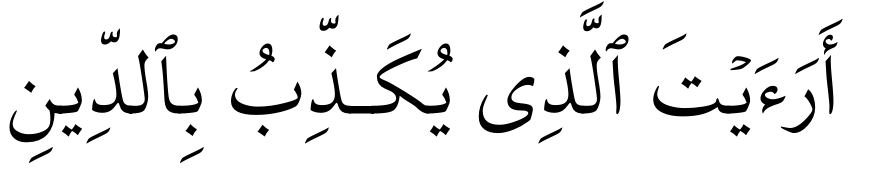
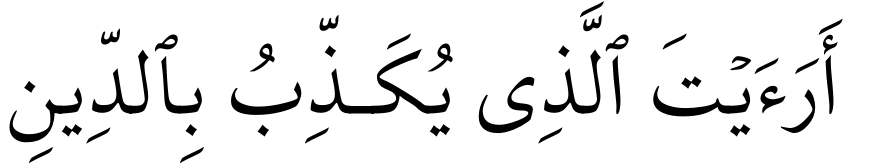
КОрректировка

diff --git a/pages/surah.html b/pages/surah.html
@@ -84,61 +84,61 @@
             margin-bottom: 24px;
         }
         
-        .basmala {
-            font-family: 'SF Pro Arabic', 'Scheherazade', serif;
-            font-size: 26px;
-            line-height: 1.8;
-            color: #8e8e93;
-            text-align: center;
-            padding: 20px 16px;
-            border-radius: 12px;
-            cursor: pointer;
-            transition: all 0.15s;
-            direction: rtl;
-            font-weight: 500;
-            background: #f8f9fa;
-            border: 1px solid rgba(0, 0, 0, 0.05);
-        }
-        
-        .basmala:active {
-            background: #f2f2f7;
-        }
-        
-        .basmala.playing {
-            background: rgba(0, 122, 255, 0.08);
-            color: #007aff;
-            border-color: rgba(0, 122, 255, 0.2);
-        }
-        
         .ayahs-container {
             direction: rtl;
         }
         
+        /* НОВЫЕ СТИЛИ ДЛЯ ИЗОБРАЖЕНИЙ */
         .ayah {
-            font-family: 'SF Pro Arabic', 'Scheherazade', serif;
-            font-size: 26px;
-            line-height: 1.8;
-            color: #000;
+            display: flex;
+            justify-content: center;
+            padding: 0;
+            background: transparent;
+            border: none;
             margin-bottom: 16px;
-            padding: 20px 16px 20px 60px;
-            border-radius: 12px;
             cursor: pointer;
-            transition: all 0.15s;
-            position: relative;
-            background: white;
+        }
+        
+        .ayah img {
+            height: 80px;
+            width: auto;
+            max-width: 100%;
+            display: block;
+            border-radius: 12px;
             border: 1px solid rgba(0, 0, 0, 0.05);
+            transition: all 0.15s;
         }
         
-        .ayah:active {
-            background: #f2f2f7;
+        .basmala {
+            display: flex;
+            justify-content: center;
+            padding: 0;
+            background: transparent;
+            border: none;
+            margin-bottom: 24px;
+            cursor: pointer;
         }
         
-        .ayah.playing {
+        .basmala img {
+            height: 80px;
+            width: auto;
+            max-width: 100%;
+            display: block;
+            border-radius: 12px;
+            border: 1px solid rgba(0, 0, 0, 0.05);
+            transition: all 0.15s;
+        }
+        
+        .ayah.playing img {
             background: rgba(0, 122, 255, 0.1);
-            color: #007aff;
-            border-color: rgba(0, 122, 255, 0.2);
+            border-color: rgba(0, 122, 255, 0.3);
         }
-                
+        
+        .basmala.playing img {
+            background: rgba(0, 122, 255, 0.1);
+            border-color: rgba(0, 122, 255, 0.3);
+        }
+        
         .navigation {
             display: flex;
             justify-content: space-between;
@@ -179,88 +179,14 @@
                 font-size: 13px;
             }
             
-            .basmala {
-                font-size: 24px;
-                line-height: 1.6;
-                padding: 16px;
-            }
-            
             .ayah {
-                font-size: 24px;
-                line-height: 1.6;
-                padding: 0;
-    		background: transparent;
-    		border: none;
-    		margin-bottom: 16px;
-    		cursor: pointer;
-            }
-
-
-	   .ayah img,
-	   .basmala img {
-    		width: 100%;
-    		height: auto;
-    		display: block;
-    		border-radius: 12px;
-    		border: 1px solid rgba(0, 0, 0, 0.05);
-    		transition: all 0.15s;
-           }
-           
-
-		.ayah.playing img {
-    		background: rgba(0, 122, 255, 0.1);
-    		border-color: rgba(0, 122, 255, 0.3);
-		}
-
-		.basmala {
-    		padding: 0;
-    		background: transparent;
-    		border: none;
-    		margin-bottom: 24px;
-    		cursor: pointer;
-		}
-
-		.basmala.playing img {
-    		background: rgba(0, 122, 255, 0.1);
-    		border-color: rgba(0, 122, 255, 0.3);
-		}
-
-		/* Медиа-запросы подправить */
-		@media (max-width: 375px) {
-		    .ayah {
- 	       margin-bottom: 12px;
-	    	}
-		}
-
-		@media (max-height: 700px) {
-    		.ayah {
-        	margin-bottom: 12px;
-    		}
-		}
-
- 
-            .ayah-number {
-                left: 12px;
-                top: 16px;
-                width: 24px;
-                height: 24px;
-                font-size: 12px;
+                margin-bottom: 12px;
             }
         }
         
         @media (max-height: 700px) {
-            .basmala {
-                font-size: 22px;
-                line-height: 1.5;
-                padding: 16px;
-                margin-bottom: 16px;
-            }
-            
             .ayah {
-                font-size: 22px;
-                line-height: 1.5;
                 margin-bottom: 12px;
-                padding: 16px 16px 16px 50px;
             }
         }
     </style>
